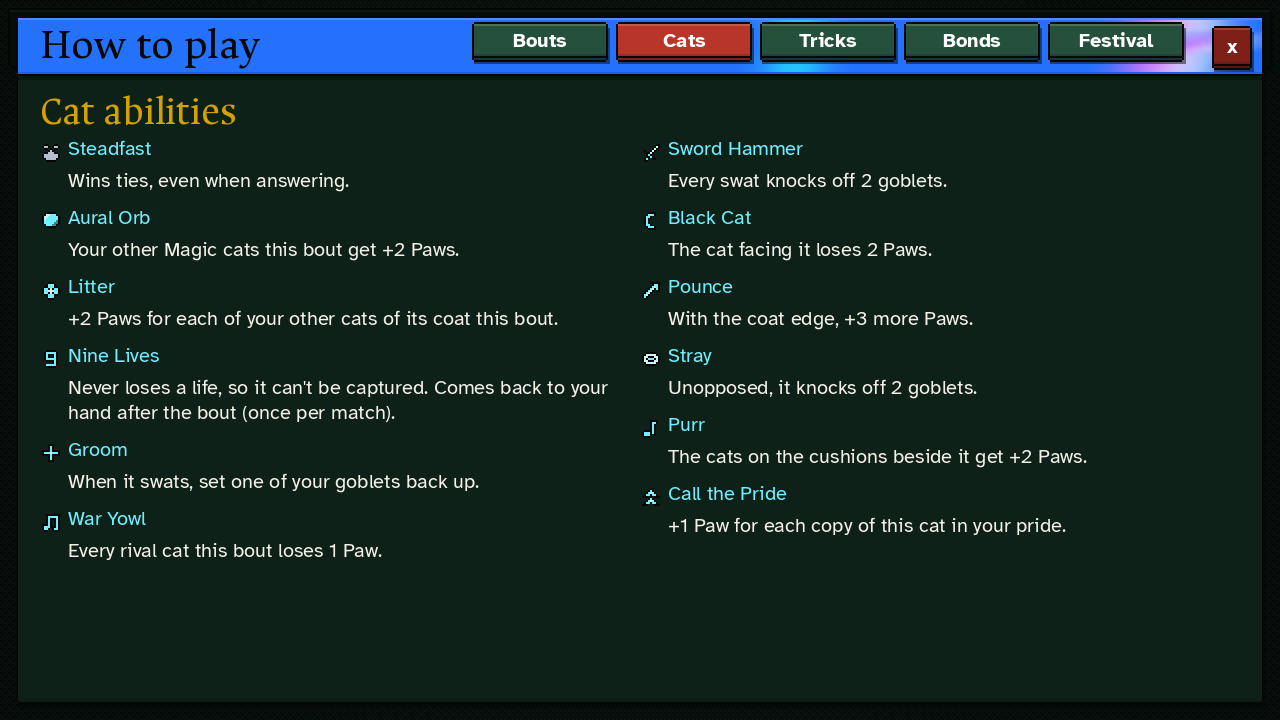
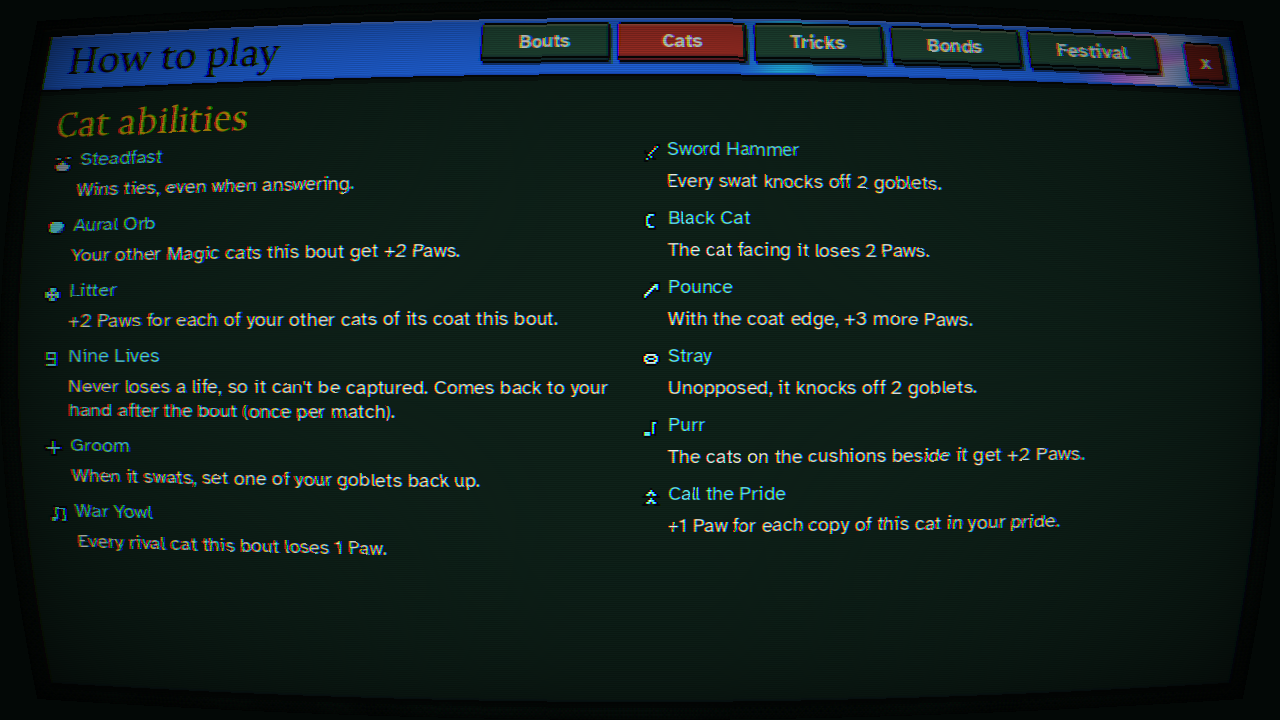
Refresh screenshots with the CRT on; autotest shows Renown and Crests
Docs screenshots are retaken from the autotest with the CRT screen on,
plus the Renown screen, the Crest picker and a match with seated cats.
The autotest uses a fresh in-memory Renown profile for its shots.

Claude-Session: https://claude.ai/code/session_01HaRigmW1gGgg2LAYvm2s6t

diff --git a/README.md b/README.md
@@ -14,7 +14,11 @@ A pixel-art roguelike card game about cat knights, with a nemesis system and the
 - **A CRT screen** (on by default; Settings or F2 turns it off): gentle curvature, scanlines, bloom and a colour fringe, over a slow animated paint swirl on the menus.
 - **Readable.** Text is drawn at your screen's real resolution in Atkinson Hyperlegible (titles in Ancizar Serif), and every text colour is checked for WCAG AA contrast (4.5:1). Fullscreen fills any screen shape, Macs included, with no black bars.
 
-![The rival leads; you answer](docs/screenshots/04_match_place.png)
+![The rival leads; you answer (with the CRT screen on)](docs/screenshots/04_match_place.png)
+
+![Winners hold their cushions and warm up; a feat medal slides in](docs/screenshots/25_match_seated.png)
+
+![Renown: titles, feats and the crests they unlock](docs/screenshots/23_renown.png)
 
 ![Some of the cats](docs/screenshots/cats.png)
 
